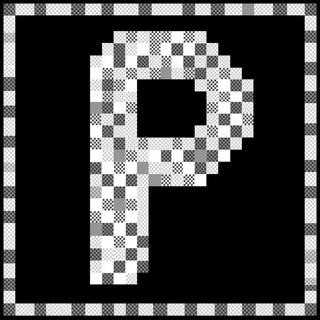
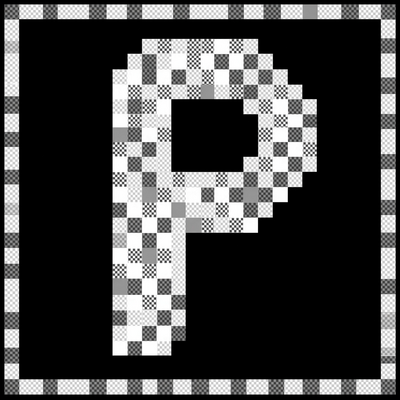
resize 400x

diff --git a/README.md b/README.md
@@ -1,5 +1,5 @@
 <p align="center">
-  <img src="docs/parch-mark.png" alt="parch">
+  <img src="docs/parch-mark-small-crushed.png" alt="parch">
 </p>
 
 # parch
